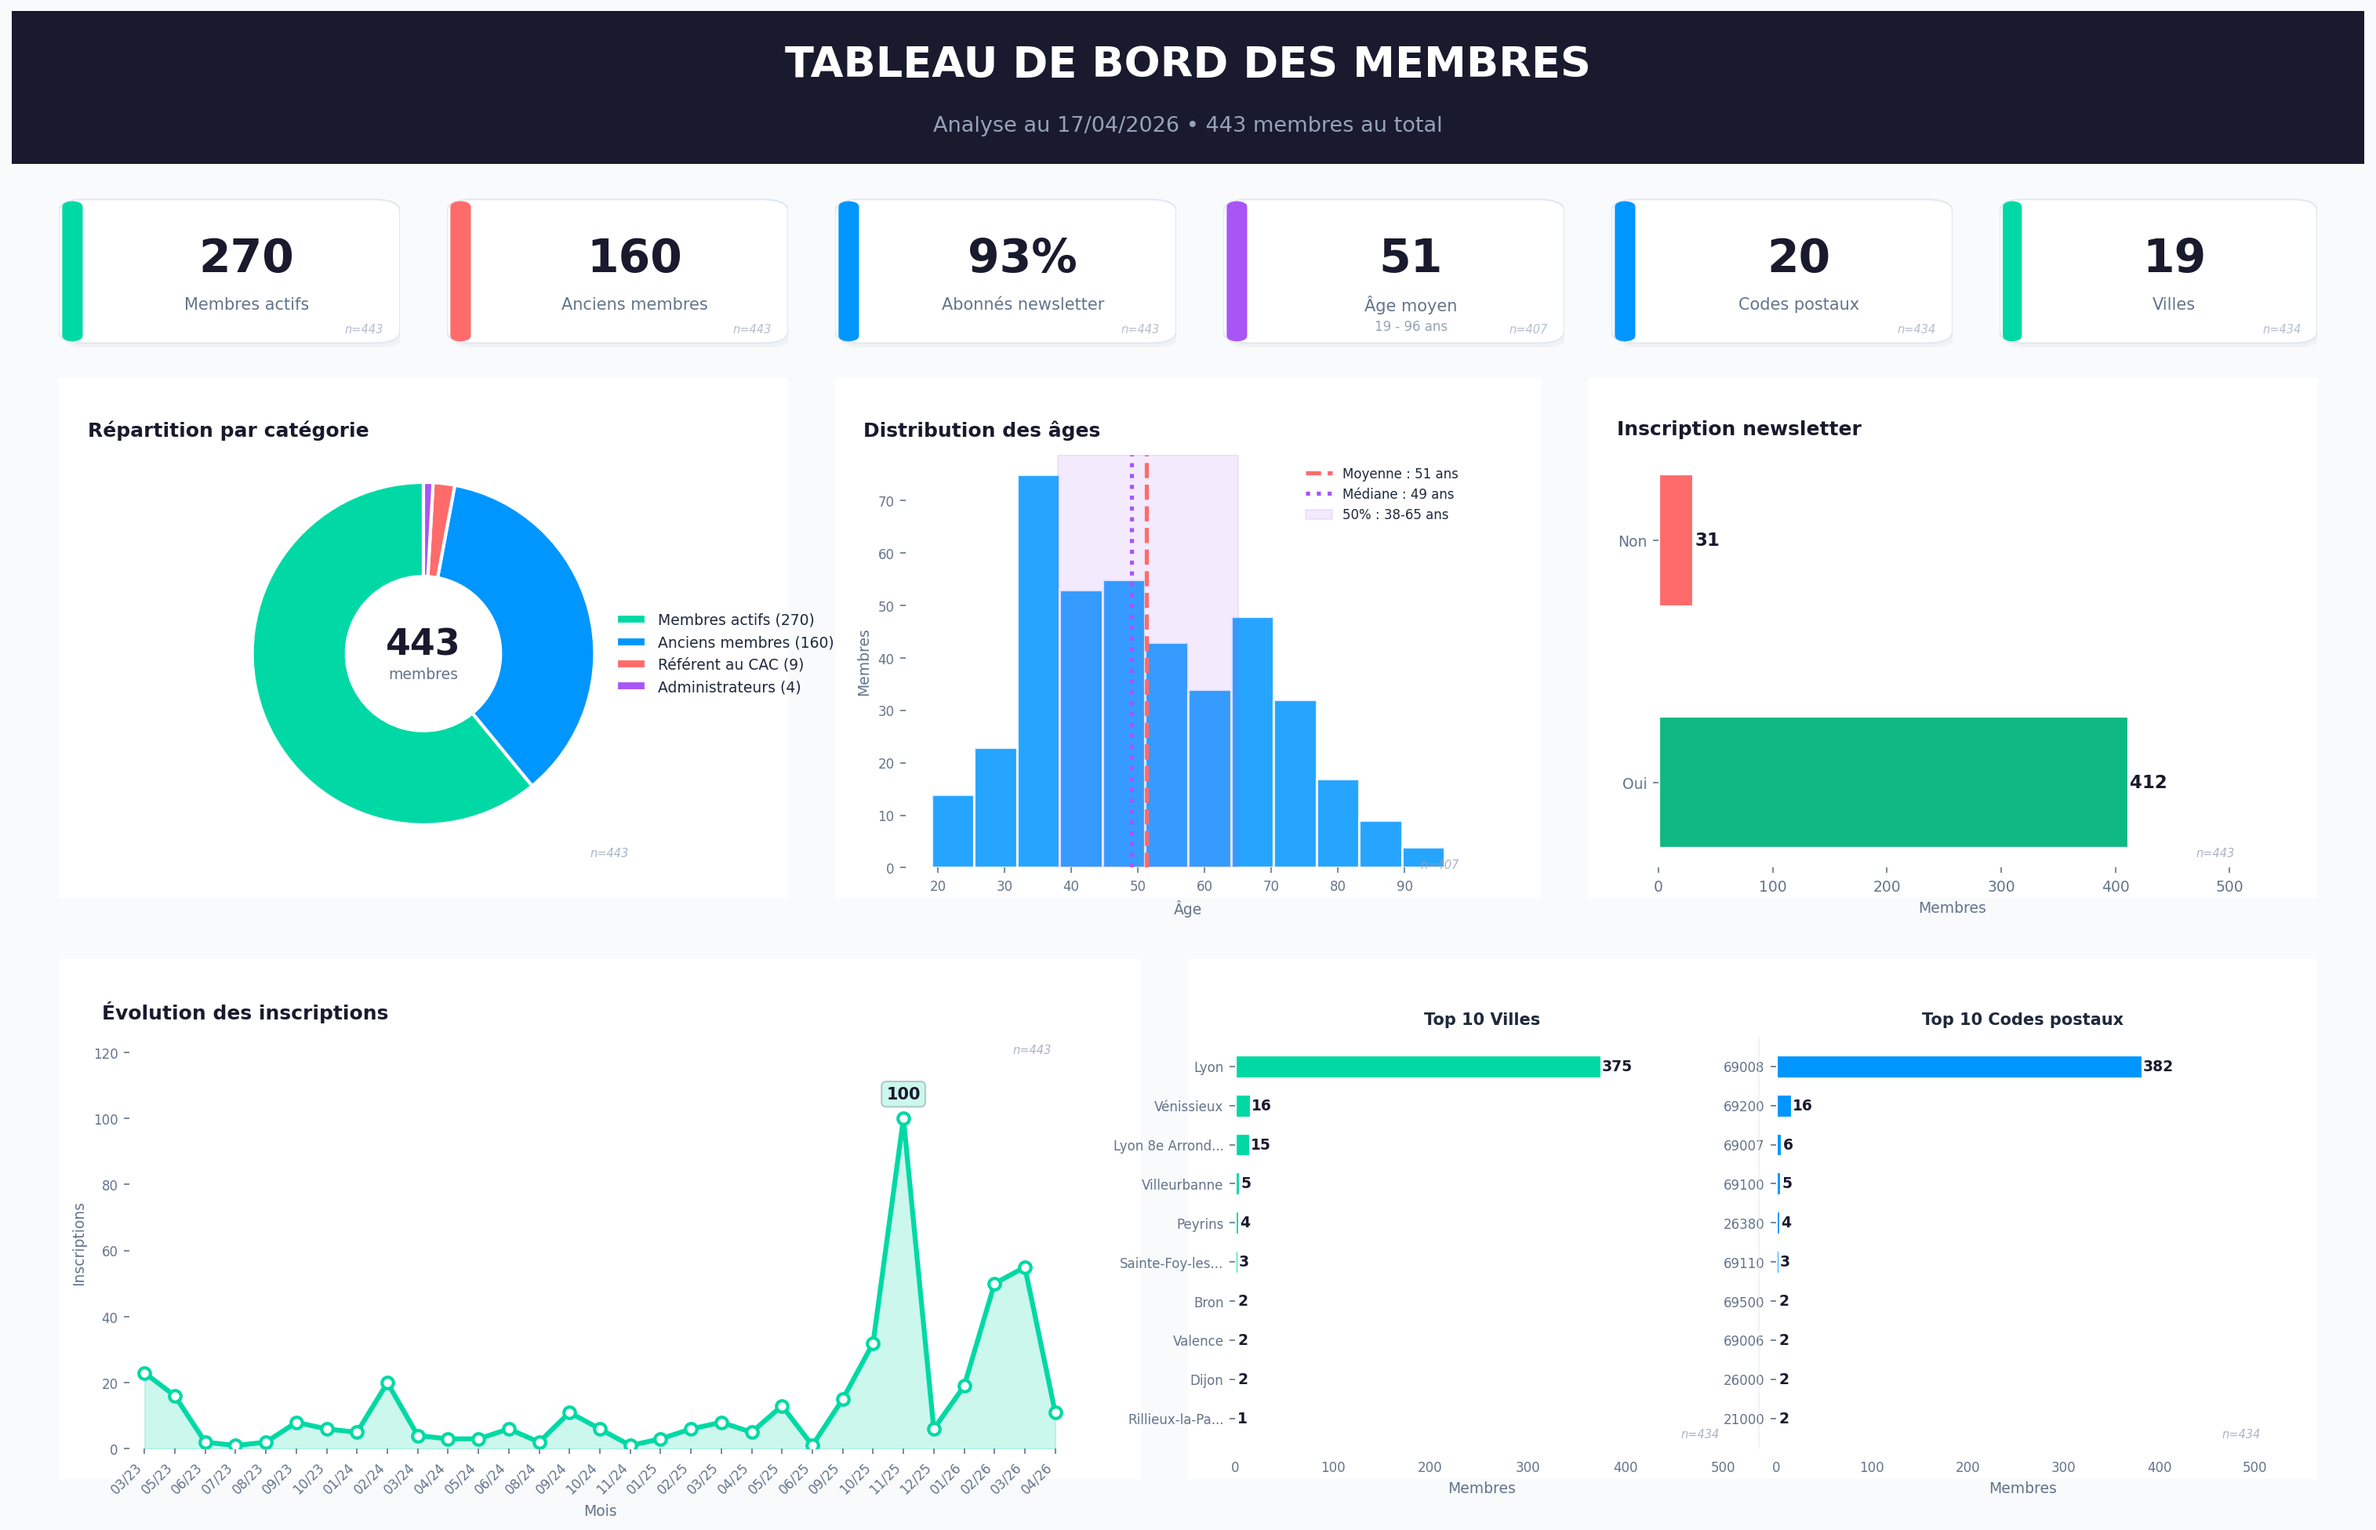
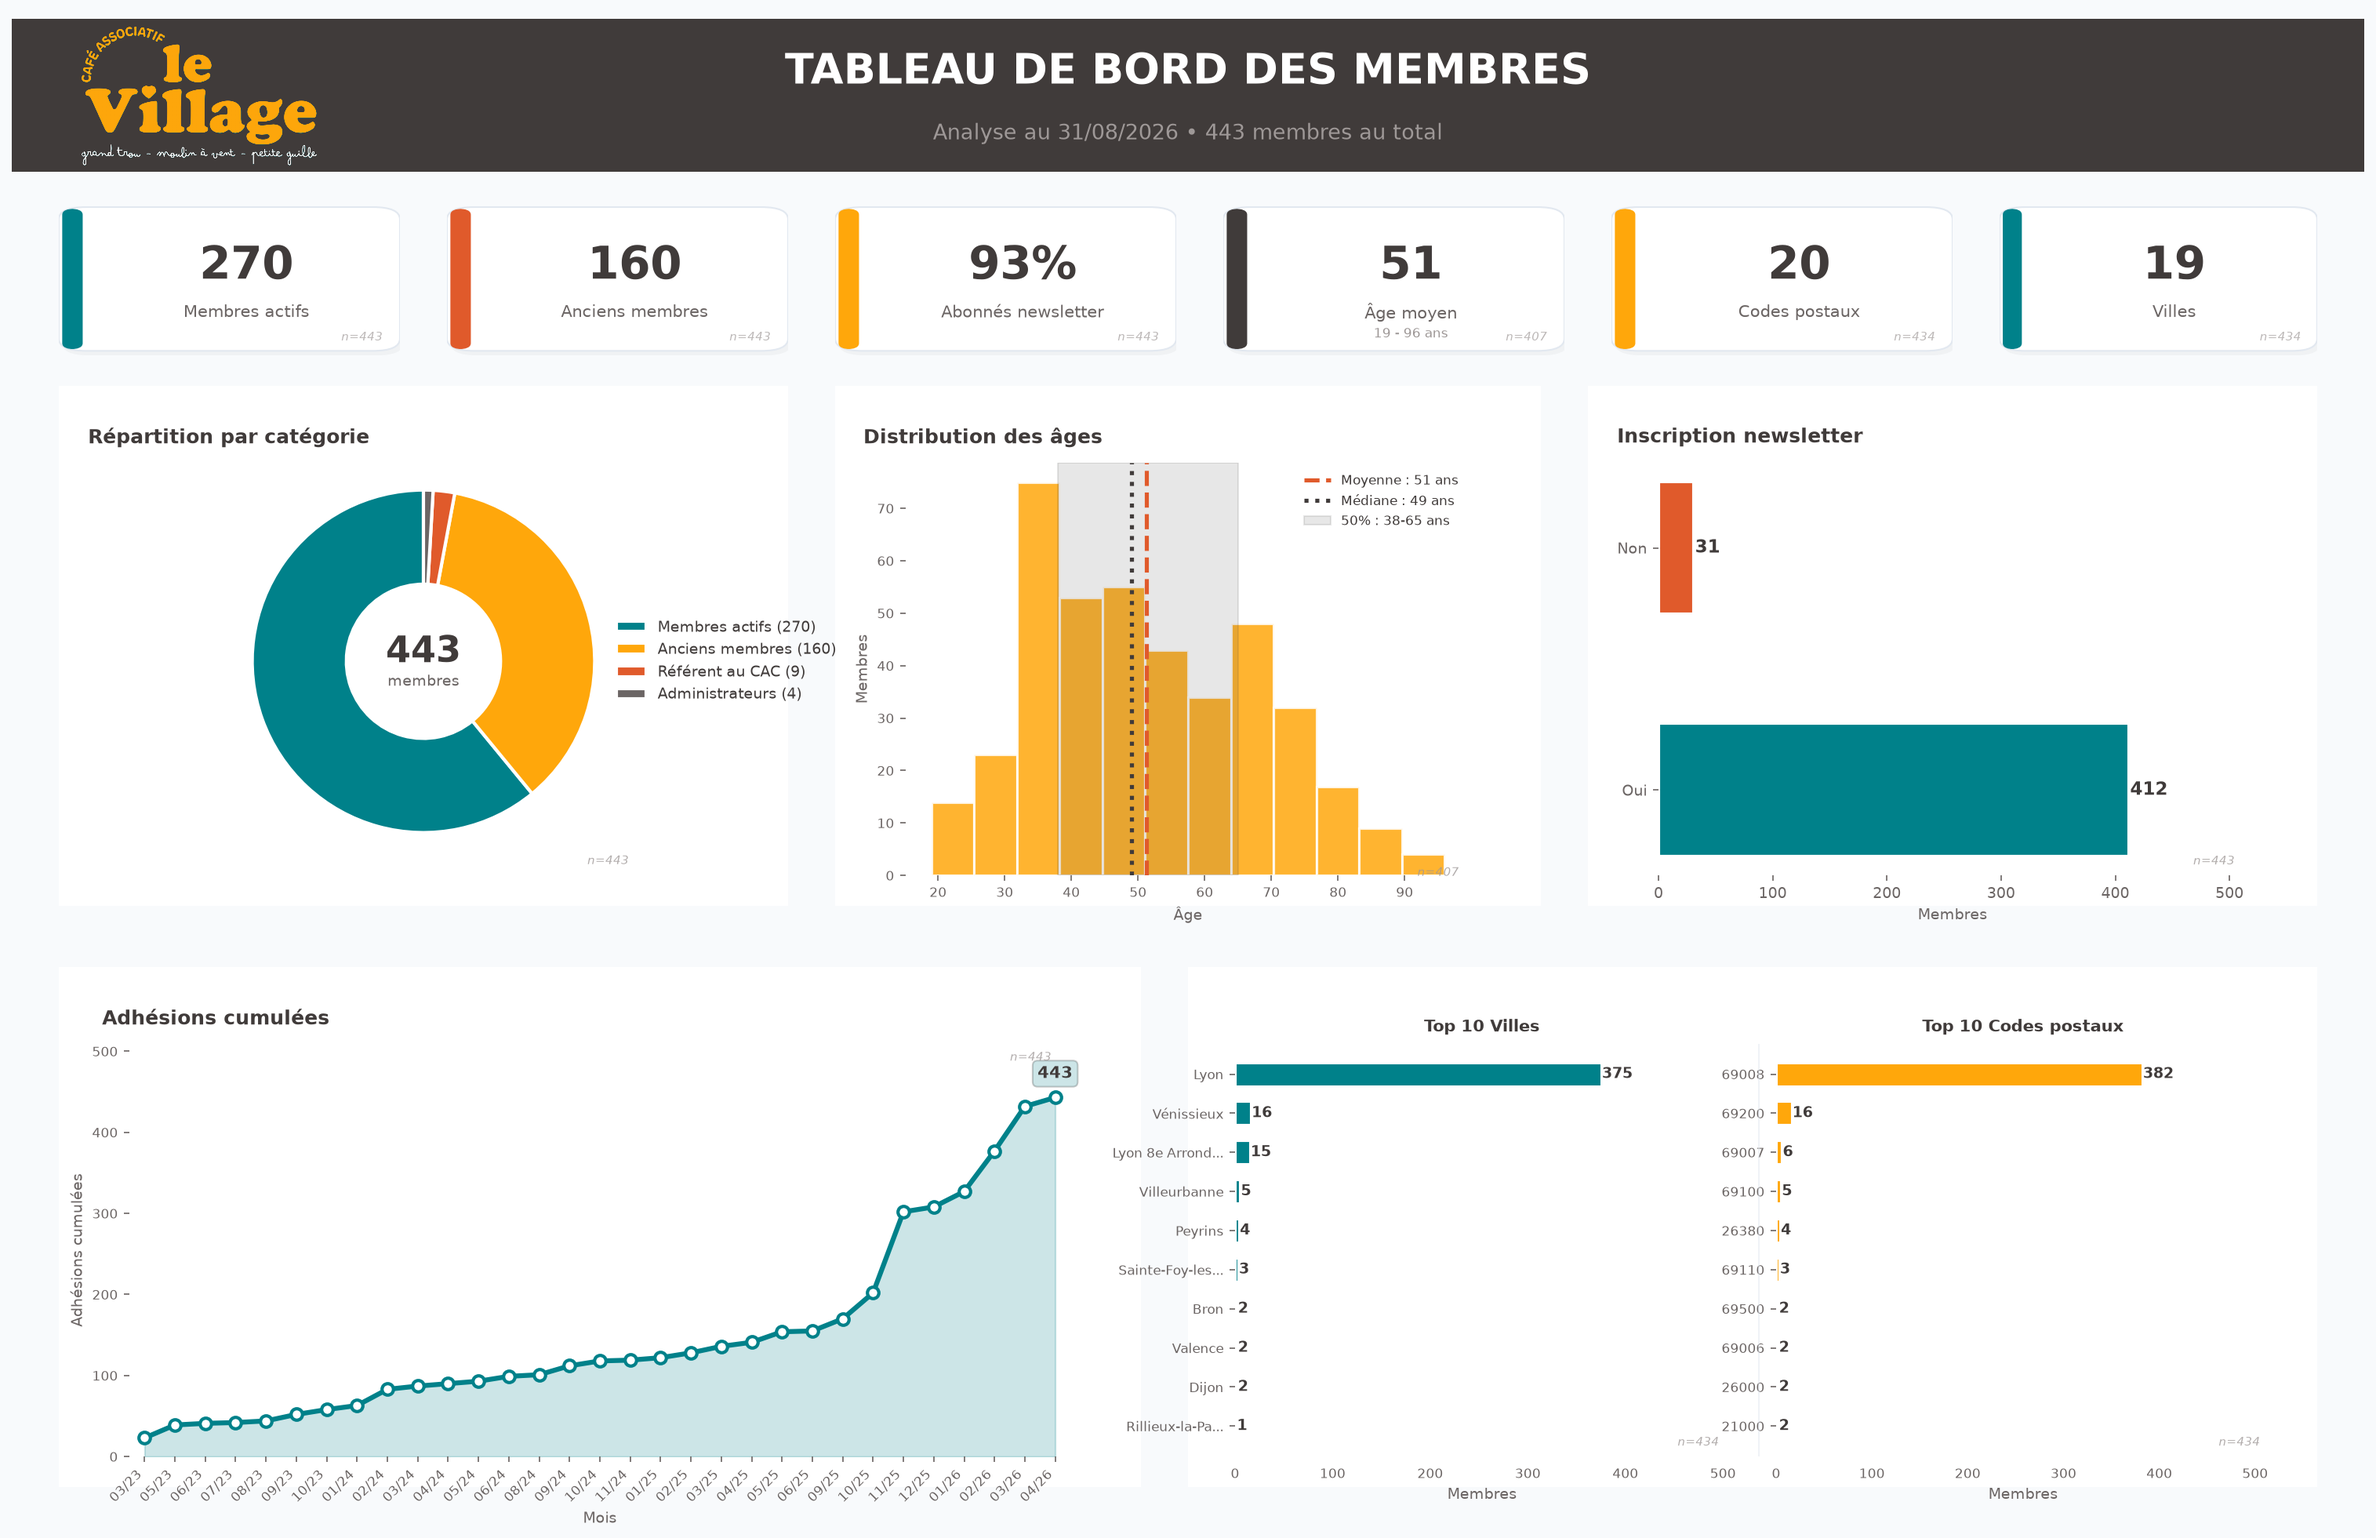
Affiche la courbe des adhésions cumulées dans le dashboard membres
Remplace le graphique mensuel "Évolution des inscriptions" par une
courbe cumulée (adhésions totales dans le temps), plus lisible pour
suivre la croissance de l'association.

diff --git a/paheko_stats/paheko.py b/paheko_stats/paheko.py
@@ -767,7 +767,7 @@ def render_dashboard(stats, output_path):
         style="italic", alpha=0.8
         )
 
-    add_card_background(fig=fig, rect=[0.02, 0.04, 0.46, 0.34], title="Évolution des inscriptions")
+    add_card_background(fig=fig, rect=[0.02, 0.04, 0.46, 0.34], title="Adhésions cumulées")
     ax4 = fig.add_axes([0.05, 0.06, 0.40, 0.27], zorder=2)
     ax4.set_facecolor(COLORS["card"])
 
@@ -781,16 +781,16 @@ def render_dashboard(stats, output_path):
         mois_counts = Counter(mois_inscriptions)
         mois_tries = sorted(mois_counts.keys())
         values = [mois_counts[m] for m in mois_tries]
+        cumulatif = list(np.cumsum(values))
 
-        ax4.fill_between(range(len(mois_tries)), values, alpha=0.2, color=COLORS["accent"])
+        ax4.fill_between(range(len(mois_tries)), cumulatif, alpha=0.2, color=COLORS["accent"])
         ax4.plot(
-            range(len(mois_tries)), values, marker="o", color=COLORS["accent"],
+            range(len(mois_tries)), cumulatif, marker="o", color=COLORS["accent"],
             linewidth=3, markersize=7, markerfacecolor=COLORS["card"], markeredgewidth=2
             )
 
-        max_idx = values.index(max(values))
         ax4.annotate(
-            f"{max(values)}", (max_idx, max(values)),
+            f"{cumulatif[-1]}", (len(mois_tries) - 1, cumulatif[-1]),
             textcoords="offset points", xytext=(0, 12),
             ha="center", fontsize=10, fontweight="bold", color=COLORS["primary"],
             bbox={"boxstyle": "round,pad=0.3", "facecolor": COLORS["accent"], "alpha": 0.2}
@@ -802,10 +802,10 @@ def render_dashboard(stats, output_path):
             rotation=45, ha="right", fontsize=8
             )
         ax4.set_xlabel("Mois", color=COLORS["text_light"], fontsize=9)
-        ax4.set_ylabel("Inscriptions", color=COLORS["text_light"], fontsize=9)
+        ax4.set_ylabel("Adhésions cumulées", color=COLORS["text_light"], fontsize=9)
         ax4.tick_params(colors=COLORS["text_light"], labelsize=8)
         ax4.set_xlim(-0.5, len(mois_tries) - 0.5)
-        ax4.set_ylim(0, max(values) * 1.25 if max(values) > 0 else 1)
+        ax4.set_ylim(0, cumulatif[-1] * 1.15 if cumulatif[-1] > 0 else 1)
     else:
         ax4.text(0.5, 0.5, "Aucune donnée d'inscription", transform=ax4.transAxes,
                  ha="center", va="center", fontsize=11, color=COLORS["text_light"])
